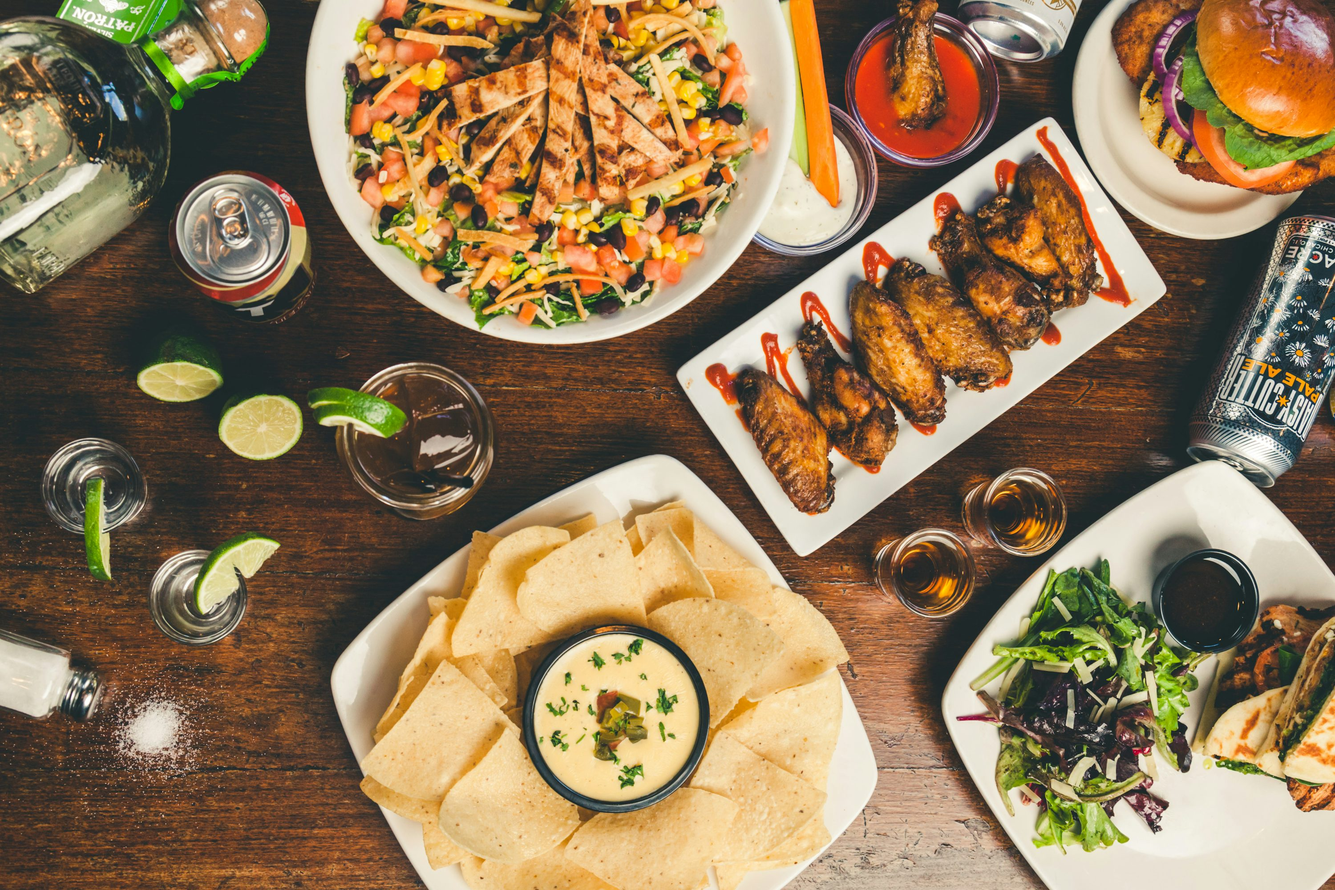
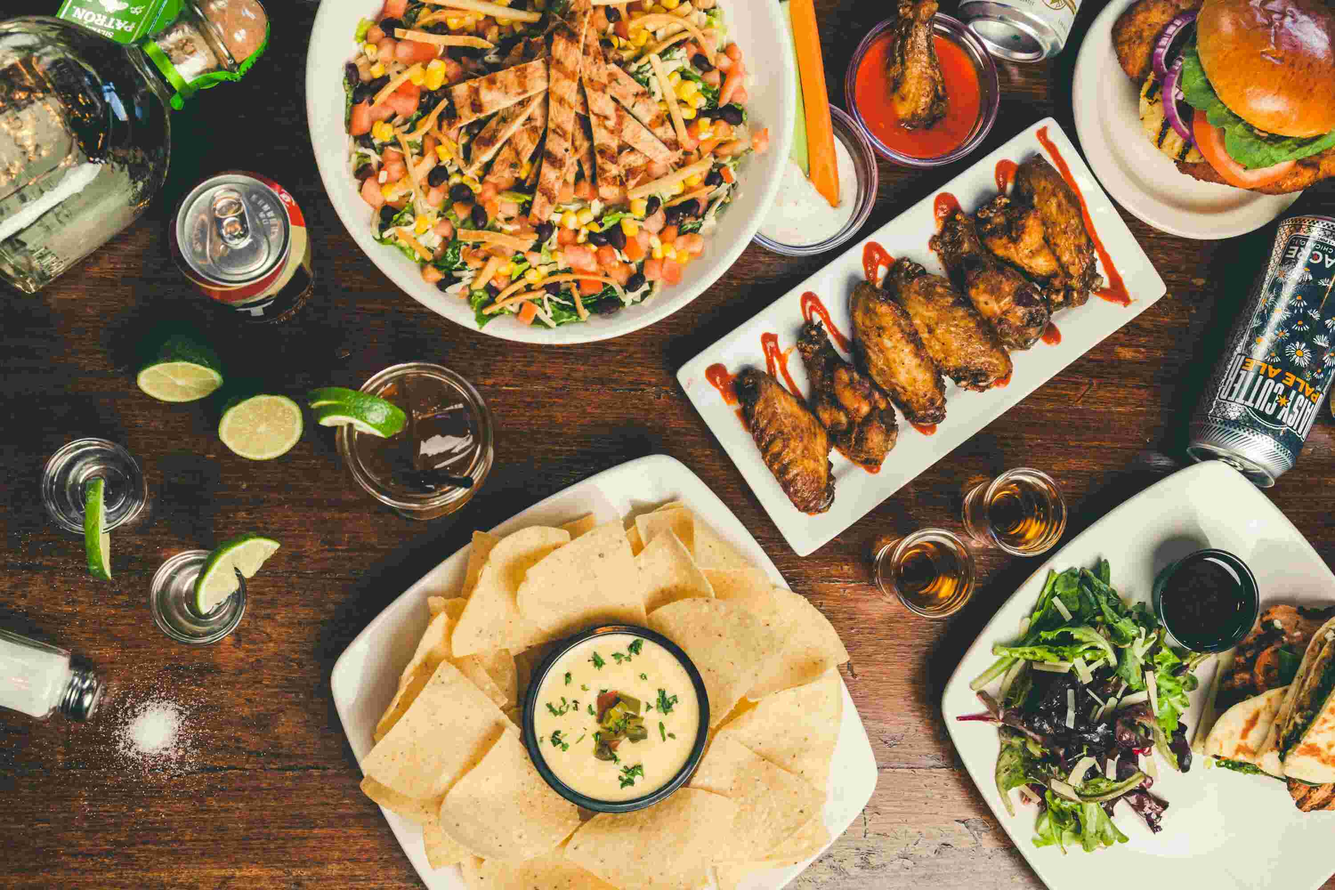
feat: improve large list by FlashList

diff --git a/tradly-app/components/common/ProductList/index.tsx b/tradly-app/components/common/ProductList/index.tsx
@@ -1,10 +1,9 @@
 import { memo, useCallback } from "react";
 import {
   ActivityIndicator,
-  FlatList,
   RefreshControl,
-  StyleProp,
   StyleSheet,
+  View,
   ViewStyle,
 } from "react-native";
 import {
@@ -12,6 +11,7 @@ import {
   InfiniteData,
   InfiniteQueryObserverResult,
 } from "@tanstack/react-query";
+import { FlashList } from "@shopify/flash-list";
 
 // Types & Interfaces
 import { Product } from "@/interfaces";
@@ -27,7 +27,7 @@ import { ERROR_MESSAGE } from "@/constants";
 import { colors } from "@/themes";
 
 export type ProductPreviewListProps = {
-  style?: StyleProp<ViewStyle>;
+  style?: ViewStyle;
   products: Product[];
   fetchNextPage?: (
     options?: FetchNextPageOptions,
@@ -65,17 +65,22 @@ const ProductList = memo(
       ({ item }: { item: Product }) => <ProductCard {...item} />,
       [],
     );
+
+    const ItemSeparatorComponent = useCallback(
+      () => <View style={styles.wrapper} />,
+      [],
+    );
+
     return (
-      <FlatList
+      <FlashList
         data={products}
         numColumns={2}
         style={style}
-        contentContainerStyle={styles.container}
-        columnWrapperStyle={styles.wrapper}
         keyExtractor={(item) => item.id}
         renderItem={handleRenderItem}
         onEndReached={handleFetchNextPage}
         onEndReachedThreshold={0.5}
+        ItemSeparatorComponent={ItemSeparatorComponent}
         ListFooterComponent={
           hasNextPage ? (
             <ActivityIndicator size="large" color={colors.green_200} />
@@ -101,10 +106,10 @@ const ProductList = memo(
 
 const styles = StyleSheet.create({
   container: {
-    gap: 10,
+    padding: 0,
   },
   wrapper: {
-    gap: 10,
+    height: 6,
   },
   message: {
     textAlign: "center",

diff --git a/tradly-app/components/ui/home/CategoryList/CategoryItem/index.tsx b/tradly-app/components/ui/home/CategoryList/CategoryItem/index.tsx
@@ -25,8 +25,12 @@ const CategoryItem = memo(({ id, imageUrl, title }: CategoryItemProps) => {
       asChild
     >
       <TouchableOpacity key={id} activeOpacity={0.8}>
-        <ImageBackground source={{ uri: imageUrl }} style={styles.container}>
-          <Text textVariant="white" font="Montserrat_600SemiBold" size={2.75}>
+        <ImageBackground
+          source={{ uri: imageUrl }}
+          style={styles.container}
+          cachePolicy="memory-disk"
+        >
+          <Text textVariant="white" font="Montserrat_600SemiBold" size={2.5}>
             {title}
           </Text>
         </ImageBackground>
@@ -37,7 +41,7 @@ const CategoryItem = memo(({ id, imageUrl, title }: CategoryItemProps) => {
 
 const styles = StyleSheet.create({
   container: {
-    width: SCREEN_WIDTH / 4 - 1,
+    width: SCREEN_WIDTH / 4,
     height: SCREEN_WIDTH / 4 - 1,
     justifyContent: "center",
     alignItems: "center",

diff --git a/tradly-app/components/common/ProductCard/index.tsx b/tradly-app/components/common/ProductCard/index.tsx
@@ -34,6 +34,7 @@ const ProductCard = memo(
               uri: imageUrl,
             }}
             style={styles.image}
+            cachePolicy="memory-disk"
           />
           <View style={styles.content}>
             <Text numberOfLines={1} textVariant="quaternary">
